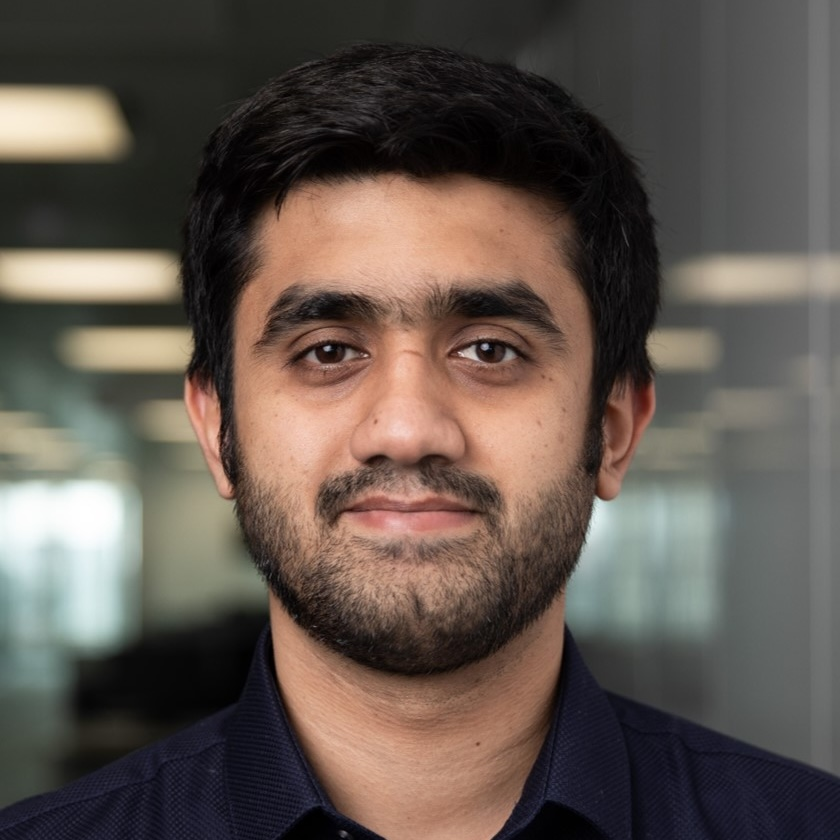
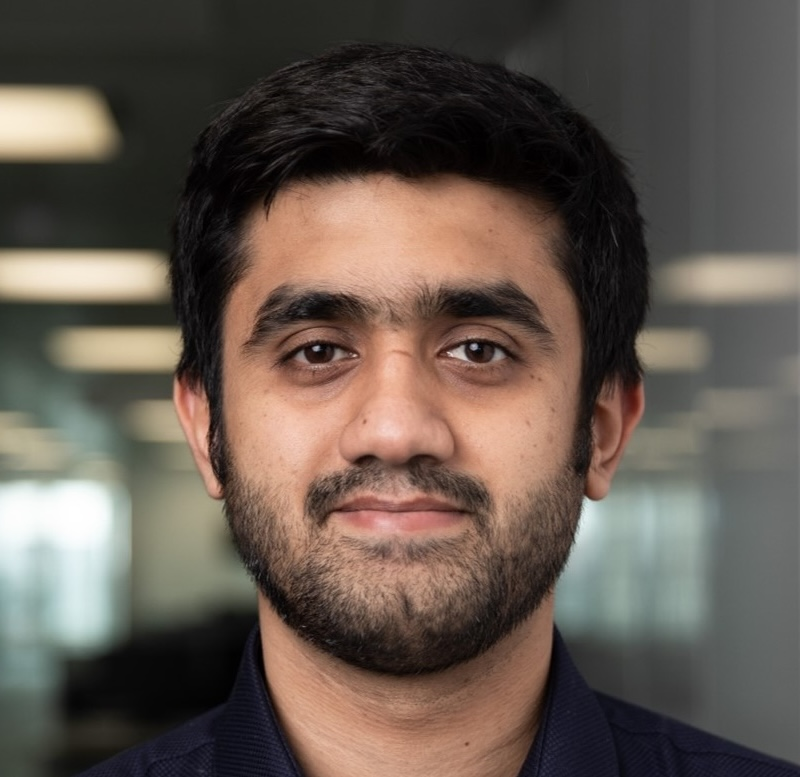
Fixes to activity page.

diff --git a/stylesheets/main.css b/stylesheets/main.css
@@ -417,11 +417,11 @@ ul {
 
 .activity-card img {
   width: 100%;
-  height: 160px;
-  object-fit: cover;
-  padding: 0;
-  /* Removing padding to let image fill the area, if desired, or keep padding but ensure uniform look */
-  background: var(--gray-100);
+  height: 180px;
+  object-fit: contain;
+  padding: 1.5rem;
+  background: var(--white);
+  border-bottom: 1px solid var(--gray-200);
 }
 
 .activity-card p {
@@ -533,6 +533,7 @@ ul {
   height: 120px;
   border-radius: 50%;
   object-fit: cover;
+  object-position: top center;
   border: 3px solid var(--light-green-bg);
   flex-shrink: 0;
 }
